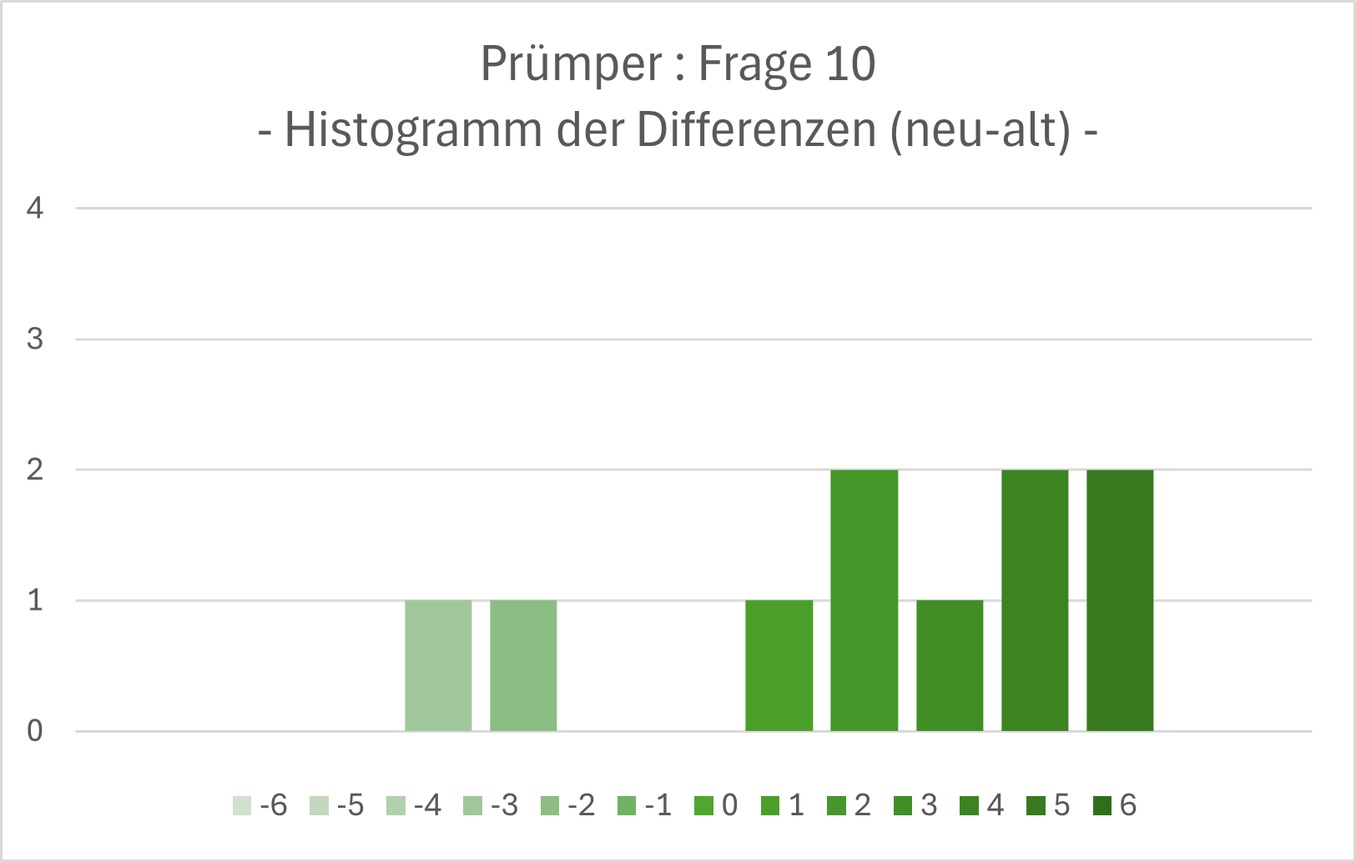
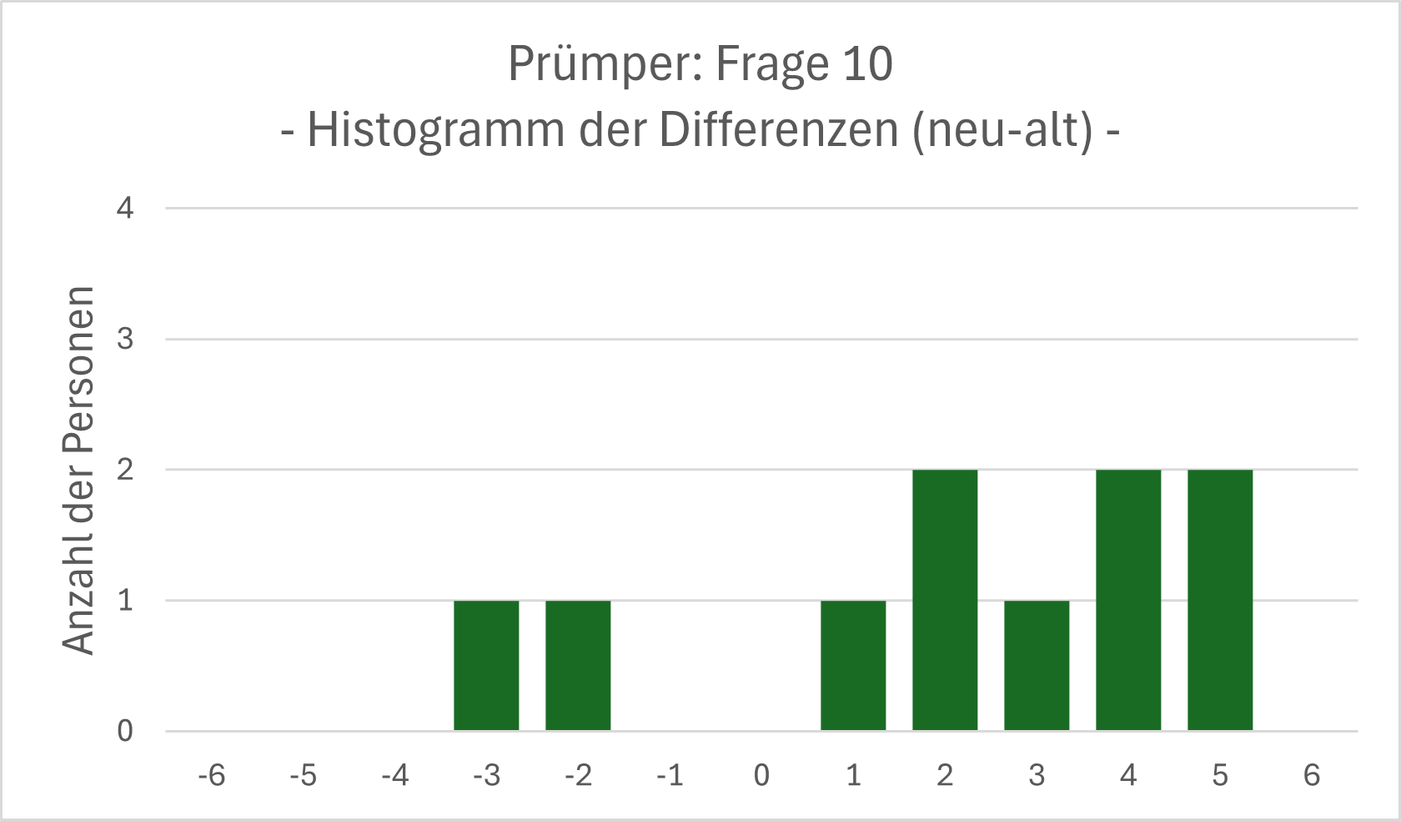
Feedback YME fertig eingearbeitet + neue Prümper-Histogramme + Verlaufsdiagramm Datenfluss DB

diff --git a/chapters/04_Dashboard/00_Erstellung_Dashboard.tex b/chapters/04_Dashboard/00_Erstellung_Dashboard.tex
@@ -13,7 +13,7 @@ Um die Ergebnisse des Testpools moderner (austauschen durch effizient o.s.) zu g
 % *****************************************************************
 \section{\textcolor{Turquoise}{Evaluation und Auswahl des Dashboard-Tools}}
 \label{ch:Dashboard:sec:Tooling}
- Das Dashboard-Projekt startete mit der Erwartung, Sonar nutzen zu können, da es bereits im Kontext eines anderen Produktes genutzt wurde, entsprechendes Wissen vorhanden ist, der Server weiterverwendet werden kann, und Sonar viele nützliche Funktionalitäten anbietet. Da das Dashboard in der Zukunft um eine Code-Analyse-Sektion erweitert werden soll, scheint die integrierte Funktionalität von Sonar angemessen. Jedoch ist die Lizenz von Sonar auf die Anzahl der Codezeilen ausgelegt. Mit der Menge der Codezeilen im bestehenden System (s. \autoref{ch:IST-Zustand}) wurde entschieden, dass diese finanzielle Belastung nicht realistisch tragbar ist. \textcolor{red}{\cite{TODO:Sonar}}
+ Das Dashboard-Projekt startete mit der Erwartung, Sonar nutzen zu können, da es bereits im Kontext eines anderen Produktes genutzt wurde, entsprechendes Wissen vorhanden ist, der Server weiterverwendet werden kann und Sonar viele nützliche Funktionalitäten anbietet. Da das Dashboard in der Zukunft um eine Code-Analyse-Sektion erweitert werden soll, scheint die integrierte Funktionalität von Sonar angemessen. Jedoch ist die Lizenz von Sonar auf die Anzahl der Codezeilen ausgelegt. Mit der Menge der Codezeilen im bestehenden System (s. \autoref{ch:IST-Zustand}) wurde entschieden, dass diese finanzielle Belastung nicht realistisch tragbar ist. \textcolor{red}{\cite{TODO:Sonar}}
 
  Es muss ein neues Tool gefunden werden. Für die Auswahl eines Tools wurden folgende Kategorien gewählt:
 \begin{itemize}
@@ -23,16 +23,19 @@ Um die Ergebnisse des Testpools moderner (austauschen durch effizient o.s.) zu g
     $\rightarrow$ Sind diese kompatibel zur Umgebung?
     \item Ist das Tool CI/CD-kompatibel?
     \item Wird das Tool immer noch aktiv gewartet?
-    \item Wie kann das Tool installiert werden? Zum Beispiel Docker/ händisch?
+    \item Welche Infrastruktur / Welchen Aufwand benötigt die Installation?
+    %Wie kann das Tool installiert werden? Zum Beispiel Docker/ händisch?
+    % TODO: im Anhang auch so umformulieren
     \item weitere Vorteile
     \item weitere Nachteile
 \end{itemize}
 
 In \autoref{tab:Dashboard:Evalutaion_Tooling} ist die Auflistung zu finden, welche Tools verglichen und wie diese ausgewertet wurden.
+Verschiedene Punkte führten zum Ausschluss der meisten Tools, darunter zum Beispiel Smashing, Dashbuilder und Tipboard. Sie sind zu alt, Open Source Projekte werden nicht mehr aktiv gewartet, benötigte Software ist nicht die jeweils aktuellste Version, das Tool ist umständlich zu installieren oder es gibt versteckte Kosten, da zum Beispiel ein zusätzlicher lizenzierter Server benötigt wird.
 
-Verschiedene Punkte führten zum Ausschluss der meisten Tools, darunter zum Beispiel Smashing, Dashbuilder und Tipboard. Sie waren zu alt, Open Source Projekte wurden nicht mehr aktiv gewartet, benötigte Software ist nicht die jeweils aktuellste Version, das Tool ist umständlich zu installieren oder es gab versteckte Kosten, da zum Beispiel ein zusätzlicher lizenzierter Server benötigt wurde.
+%Das neue Dashboard wurde mit Grafana Version 11.6.1 erstellt. Zwar hat das Tool nicht die gleichen Code-spezifischen Funktionalitäten wie Sonar, ist jedoch ein modernes viel genutztes Tool (s. \autoref{ch:SdF:sec:moderne_DB_Tools_und_Empfehlungen}). Abgesehen davon, dass ein Grafanaserver bereits zur Verfügung stand, kann es kostenfrei selbst gehostet werden, ermöglicht ein einfaches Drag-and-Drop zur Dashboard-Erstellung, unterstützt jegliche Dateiformate über einen API-Zugriff, ist leicht zu installieren und bietet viele Einstellungsmöglichkeiten zum Individualisieren. \textcolor{red}{\cite{TODO:Grafana}}
+Das neue Dashboard wurde mit Grafana Version 11.6.1 erstellt. Zwar hat das Tool nicht die gleichen Code-spezifischen Funktionalitäten wie Sonar, ist jedoch ein modernes viel genutztes Tool (s. \autoref{ch:SdF:sec:moderne_DB_Tools_und_Empfehlungen}). Zur Dashboard-Erstellung ermöglicht Grafana ein einfaches Drag-and-Drop, unterstützt jegliche Dateiformate über einen API-Zugriff, ist leicht zu installieren und bietet viele Einstellungsmöglichkeiten zum Individualisieren. Zudem kann Grafana kostenfrei selbst gehostet werden. \textcolor{red}{\cite{TODO:Grafana}}
 
-Das neue Dashboard wurde mit Grafana Version 11.6.1 erstellt. Zwar hat das Tool nicht die gleichen Code-spezifischen Funktionalitäten wie Sonar, ist jedoch ein modernes viel genutztes Tool (s. \autoref{ch:SdF:sec:moderne_DB_Tools_und_Empfehlungen}). Abgesehen davon, dass ein Grafanaserver bereits zur Verfügung stand, kann es kostenfrei selbst gehostet werden, ermöglich ein einfaches Drag-and-Drop zur Dashboard-Erstellung, unterstützt jegliche Dateiformate über einen API-Zugriff, ist leicht zu installieren und bietet viele Einstellungsmöglichkeiten zum Individualisieren. \textcolor{red}{\cite{TODO:Grafana}}
 
 % *****************************************************************
 \section{\textcolor{Turquoise}{technische Umsetzung des Datenflusses zur Dashboardanzeige}}
@@ -50,9 +53,8 @@ Das Dashboard kann auf den Server zugreifen und mithilfe der API über den Adres
 
 \begin{figure}[]
     \centering
-    %\includegraphics[width=1\linewidth]{Dashboard/.png}
-    \includegraphics[width=0.5\linewidth]{Anhänge/00_stockfoto.jpg}
-    \caption{Datenfluss vom alten System zum Dashboard \textcolor{red}{(Bild einfügen)}}
+    \includegraphics[width=1\linewidth]{Dashboard/Daten_Kontrollsequenz_DB.png}
+    \caption{Kontrollsequenz des Datenflusses vom alten System zum Dashboard}
     \label{fig:DB_Datenfluss}
 \end{figure}
 
@@ -62,7 +64,7 @@ Das Dashboard kann auf den Server zugreifen und mithilfe der API über den Adres
 \section{\textcolor{Turquoise}{Überblick über den strukturellen Aufbau und Inhalt des Dashboards}}
 \label{ch:Dashboard:sec:Aufbau}
 \textcolor{blue}{einleitende Worte}\\
-Es gibt zwei Dashboards. Einmal für die Entwicklungsversion und eins für alle releasten und maintainten Versionen. Da die releasten Versionen bis auf kleine Fixes nicht weiter verändert werden \textcolor{red}{(ist das die richtige Begründung?)}, ist die Anzahl der benötigten Tests bedeutend geringer. Somit kann der Statusbericht mehrerer Versionen auf einem Dashboard angezeigt werden.
+Es gibt zwei Dashboards. Je eins für die Entwicklungsversion und eins für alle veröffentlichten und aktiv gewarteten Versionen. Da die releasten Versionen bis auf kleine Fixes nicht weiter verändert werden \textcolor{red}{(ist das die richtige Begründung?)}, ist die Anzahl der benötigten Tests bedeutend geringer. Somit kann der Statusbericht mehrerer Versionen auf einem Dashboard angezeigt werden.
 
 Grafana gibt eine Dashboard Struktur in Reihen vor. Jede Reihe stellt ein System da, welches im alten System jeweils eine eigene Seite benötigt. Die Panele einer Reihe sind in drei Spalten aufgeteilt (s. \autoref{fig:aufbau_dashboard}).
 
@@ -79,7 +81,7 @@ Grafana gibt eine Dashboard Struktur in Reihen vor. Jede Reihe stellt ein System
 \textcolor{red}{TODO: im nächsten Absatz mit 'Daten' statt 'Spalte' ansetzten}
 
 % mittlere Spalte
-In der mittleren Spalte sind Zahlen in verschiedenen Farben dargestellt, die den jeweiligen Zustand bzw. die Fehleranzahl der entsprechenden Testkategorie anzeigt. Im Falle eines Green Days stehen in allen Feldern dunkelgraue Nullen. Da stattdessen auffallen soll wenn Fehler vorhanden sind, werden diese farbig markiert. Die Fehlerfälle sind 'System abgestürzt', 'Anzahl der Fehler', 'Anzahl der ausstehenden Tests' und 'ignorierte Tests'\footnote{Die Kategorie 'Ignorierte Tests' umfässt zum Beispiel Testfälle mit langzeit bekannten Fehlern, die für die Einschätzung des Green Days ignoriert werden dürfen.}.
+In der mittleren Spalte sind Zahlen in verschiedenen Farben dargestellt, die den jeweiligen Zustand bzw. die Fehleranzahl der entsprechenden Testkategorie anzeigt. Im Falle eines Green Days, ein Tag an dem keine Fehler auftreten, stehen in allen Feldern dunkelgraue Nullen. Da stattdessen auffallen soll wenn Fehler vorhanden sind, werden diese farbig markiert. Die Fehlerfälle sind 'System abgestürzt', 'Anzahl der Fehler', 'Anzahl der ausstehenden Tests' und 'ignorierte Tests'\footnote{Die Kategorie 'Ignorierte Tests' umfässt zum Beispiel Testfälle mit langzeit bekannten Fehlern, die für die Einschätzung des Green Days ignoriert werden dürfen.}.
 Aufgrund der Menge an Testfällen und der Anforderung alle zusammengehörigen Daten auf einen Blick erfassen zu können (s. \autoref{ch:Dashboard:sec:Anforderungen}), sind die Test-Kategorien in Spalten und deren Ergebnisse in den Reihen darunter dargestellt. Im Vergleich zum alten System wurden die Reihen/Spalten vertauscht (s. \autoref{fig:aufbau_altes_System}).
 
 % Informationen: linke + rechte Spalte

diff --git a/chapters/02_Stand_der_Forschung/03_UI.tex b/chapters/02_Stand_der_Forschung/03_UI.tex
@@ -16,19 +16,20 @@ Die DIN-Normen der Nummer 9241 geben Vorgaben und Empfehlungen zur Gestaltung in
 
 Neben der Usability steht die User-Experience (UX, dt. Nutzererfahrung oder -erlebnis). Diese wird in Part 210 beschrieben. Da die das Nutzererlebnis eine Übermenge der Gebrauchstauglichkeit (UE) ist ($UX \varsubsetneq UE$), ist sie nicht in der Abbildung aufgelistet. Der Part 112 mit den Grundsätzen zur Informationsdarstellung ist vor allem auf Anwendungsfälle wie Interfaces oder Dashboards anwendbar. Da dieser Part jedoch ebenfalls sehr UX-nah aufgebaut ist, finden seine Prinzipien aus Umfangsgründen keinen Platz in dieser Forschung.
 
-% *******************************************************************************************
-\subsection{\textcolor{Plum}{Differenzierung Usability und User-Experience}}
-\label{ch:SdF:sec:Usability_vs_User_Experience}
-alles von oben einfügen
-% *******************************************************************************************
+% ******************************************************************
 \subsection{\textcolor{Turquoise}{Definition Usability nach ISO 9241-11}}
 \label{ch:SdF:sec:Usability}
 Der Begriff der Usability (dt. Gebrauchstauglichkeit) beschreibt, im Gegensatz zur User-Experience (UX), die Qualität eines Systems / einer Oberfläche in Bezug auf die Einfachheit und Nutzbarkeit des Systems. Sie wird gemessen in den Dimensionen der Effektivität, Effizienz und der Zufriedenheit.
 
 Die Effizienz beschreibt die funktionelle Eignung eines Systems, das heißt dass der Nutzer seine Aufgaben vollständig und korrekt mithilfe dieses Systems durchführen kann. Die Effizienz misst sich in Form von Zeit, um eine Aufgabe vollständig und richtig zu erfüllen, und der Rate wie viele Fehler auf dem Weg dorthin gemacht wurden. Die Zufriedenheit der Nutzer ist nicht in metrischen Kenngrößen zu erfassen. In Form von zum Beispiel Fragebögen (s. \autoref{ch:SdF:sec:Fragebogen}) oder der Verhaltensanalyse während eines Testszenario kann eine Zufriedenheitsspektrum festgestellt werden.
 
+% ******************************************************************
+\subsection{\textcolor{Plum}{Differenzierung Usability und User-Experience}}
+\label{ch:SdF:sec:Usability_vs_User_Experience}
+alles von oben einfügen
+\cite{usability_vs_experience:2018}
 
-% *******************************************************************************************
+% ******************************************************************
 \subsection{\textcolor{Salmon}{Interaktionsprinzipien nach ISO 9241-110}}   % zur Gebrauchstauglichkeit und Ergonomie interaktiver Systeme
 \label{ch:SdF:sec:Interaktionsprinzipien}
 %\cite{DIN_EN_ISO_9241-110}\\
@@ -63,24 +64,27 @@ Weiterhin sollte das System Rückmeldung geben, um dem Nutzer zu helfen, die Fol
 
 \noindent
 \underline{/* TODO}\\
-* Erlernbarkeit\\
 * Steuerbarkeit\\
 * Robustheit gegen Benutzungsfehler\\
 * Benutzerbindung (en: user engagement)\\
 */
 
-% *******************************************************************************************
+% ******************************************************************
 \subsection{\textcolor{Plum}{Standardisierter Fragebogen von J. Prümper nach ISO 9241-110}}
 \label{ch:SdF:sec:Fragebogen}
 ...
 Will ich den überhaupt hier aufzählen? wird in \autoref{ch:Validierung:sec:Material:Nutzerbefragung} genannt.
 
-% *******************************************************************************************
+überarbeitete Kurzversion des Fragebogens von Jochen Prümper \cite{Pruemper:Fragebogen-S:2006}.
+Prümpers Fragebogen wurde auf Basis der ISO 9241-110 (s. \autoref{ch:SdF:UI:ISO}) erstellt, indem jeder der sieben Skalen drei Fragen zugeordnet wurden. \cite{Pruemper:Fragebogen-S:2006:Paper}
+
+% ******************************************************************
 \subsection{\textcolor{Plum}{moderne Tools und Empfehlungen zur Erstellung von Dashboards}}
 \label{ch:SdF:sec:moderne_DB_Tools_und_Empfehlungen}
 ...
+Grafana und weitere Tools nennen -> und wo diese Auflistung herkommt
 
-% *******************************************************************************************
+% ******************************************************************
 \subsection{\textcolor{Plum}{psychologische Ansätze zur Gestaltung von Oberflächen}}
 \label{ch:SdF:sec:psychologisch}
 // TODO: Titel ändern! \\

diff --git a/Anhänge/Nutzerbefragung/rohe_Daten.tex b/Anhänge/Nutzerbefragung/rohe_Daten.tex
@@ -29,64 +29,64 @@ neu       & 1,55      & 2           & 1,5      \\ \hline
 %\begin{tabular}{|l|c|c|c|}
 \hline
 Frage 2   & $\Bar{x}$ & $\Tilde{x}$ & $\sigma$ \\ \hline
-alt       & xxxx      &  xx         &  xxxx    \\ \hline
-neu       & xxxx      &  xx         &  xxxx    \\ \hline
+alt       & 0,27      &  1          &  1,86    \\ \hline
+neu       & 1,45      &  2          &  1,37    \\ \hline
 %Differenz &           &             & -        \\ \hline
 %\end{tabular}
 %\begin{tabular}{|l|c|c|c|}
 \hline
 Frage 3   & $\Bar{x}$ & $\Tilde{x}$ & $\sigma$ \\ \hline
-alt       & xxxx      &  xx         &  xxxx    \\ \hline
-neu       & xxxx      &  xx         &  xxxx    \\ \hline
+alt       & 0.36      &  0          &  1.67    \\ \hline
+neu       & 1.27      &  2          &  1.35    \\ \hline
 %Differenz &           &             & -        \\ \hline
 %\end{tabular}
 %\begin{tabular}{|l|c|c|c|}
 \hline
 Frage 4   & $\Bar{x}$ & $\Tilde{x}$ & $\sigma$ \\ \hline
-alt       & xxxx      &  xx         &  xxxx    \\ \hline
-neu       & xxxx      &  xx         &  xxxx    \\ \hline
+alt       & -0.3      &  0         &  2,18    \\ \hline
+neu       & 1,45      &  2         &  1,44    \\ \hline
 %Differenz &           &             & -        \\ \hline
 %\end{tabular}
 %\begin{tabular}{|l|c|c|c|}
 \hline
 Frage 5   & $\Bar{x}$ & $\Tilde{x}$ & $\sigma$ \\ \hline
-alt       & xxxx      &  xx         &  xxxx    \\ \hline
-neu       & xxxx      &  xx         &  xxxx    \\ \hline
+alt       & 0.73      &  1          &  2,05    \\ \hline
+neu       & 2.27      &  2          &  0,62    \\ \hline
 %Differenz &           &             & -        \\ \hline
 \end{tabular}
 \begin{tabular}{|l|c|c|c|}
 \hline
 Frage 6   & $\Bar{x}$ & $\Tilde{x}$ & $\sigma$ \\ \hline
-alt       & xxxx      &  xx         &  xxxx    \\ \hline
-neu       & xxxx      &  xx         &  xxxx    \\ \hline
+alt       & -0.4      &  -1         &  1,97    \\ \hline
+neu       & 1.91      &  2          &  1,16    \\ \hline
 %Differenz &           &             & -        \\ \hline
 %\end{tabular}
 %\begin{tabular}{|l|c|c|c|}
 \hline
 Frage 7   & $\Bar{x}$ & $\Tilde{x}$ & $\sigma$ \\ \hline
-alt       & xxxx      &  xx         &  xxxx    \\ \hline
-neu       & xxxx      &  xx         &  xxxx    \\ \hline
+alt       & -0.8      &  -1         &  1,75    \\ \hline
+neu       & 1.73      &  2          &  0,75    \\ \hline
 %Differenz &           &             & -        \\ \hline
 %\end{tabular}
 %\begin{tabular}{|l|c|c|c|}
 \hline
 Frage 8   & $\Bar{x}$ & $\Tilde{x}$ & $\sigma$ \\ \hline
-alt       & xxxx      &  xx         &  xxxx    \\ \hline
-neu       & xxxx      &  xx         &  xxxx    \\ \hline
+alt       & 1.2       &  1         &  1,33    \\ \hline
+neu       & 2.27      &  3         &  0,96    \\ \hline
 %Differenz &           &             & -        \\ \hline
 %\end{tabular}
 %\begin{tabular}{|l|c|c|c|}
 \hline
 Frage 9   & $\Bar{x}$ & $\Tilde{x}$ & $\sigma$ \\ \hline
-alt       & xxxx      &  xx         &  xxxx    \\ \hline
-neu       & xxxx      &  xx         &  xxxx    \\ \hline
+alt       & -0.2      &  -1         &  2,14    \\ \hline
+neu       & 2.09      &  2          &  1,16    \\ \hline
 %Differenz &           &             & -        \\ \hline
 %\end{tabular}
 %\begin{tabular}{|l|c|c|c|}
 \hline
 Frage 10   & $\Bar{x}$ & $\Tilde{x}$ & $\sigma$ \\ \hline
-alt       & xxxx      &  xx         &  xxxx    \\ \hline
-neu       & xxxx      &  xx         &  xxxx    \\ \hline
+alt       & -0.9       &  -1.5       &  1,81    \\ \hline
+neu       & 1.2        &  1.5        &  1,4    \\ \hline
 %Differenz &           &             & -        \\ \hline
 \end{tabular}
 

diff --git a/Anhänge/Usability-Test/rohe_Daten.tex b/Anhänge/Usability-Test/rohe_Daten.tex
@@ -11,48 +11,50 @@
 % *********************************************************************************
 
 \begin{table}[H]
+\justifying
 \begin{tabular}{|l|c|c|c|c|}
 \hline
 Aufgabe 1\textcolor{white}{.0}   & $\Bar{x}$ & $\Tilde{x}$ & $\sigma$ & f \\ \hline
-alt         & xxxx      &  xx         &  xxxx &  xxx   \\ \hline
-neu         & xxxx      &  xx         &  xxxx &  xxx   \\ \hline
+alt                              & 16        &  13         &  11      &  0\%   \\ \hline
+neu                              & 9,5       &  9          &  3,6     &  9,09\%   \\ \hline
 %Differenz   &           &             & -     &  xxx   \\ \hline
-\end{tabular}
-\begin{tabular}{|l|c|c|c|c|}
+%\end{tabular}
+%\begin{tabular}{|l|c|c|c|c|}
 \hline
 Aufgabe 2\textcolor{white}{.0}   & $\Bar{x}$ & $\Tilde{x}$ & $\sigma$ & f \\ \hline
-alt         & xxxx      &  xx         &  xxxx &  xxx   \\ \hline
-neu         & xxxx      &  xx         &  xxxx &  xxx   \\ \hline
+alt                              & 14        &  10         &  9,1  &  0\%   \\ \hline
+neu                              & 6,5       &  6,5        &  2,3  &  30\%   \\ \hline
 %Differenz   &           &             & -     &  xxx   \\ \hline
-\end{tabular}
-\begin{tabular}{|l|c|c|c|c|}
+%\end{tabular}
+%\begin{tabular}{|l|c|c|c|c|}
 \hline
 Aufgabe 3.1   & $\Bar{x}$ & $\Tilde{x}$ & $\sigma$ & f \\ \hline
-alt         & xxxx      &  xx         &  xxxx &  xxx   \\ \hline
-neu         & xxxx      &  xx         &  xxxx &  xxx   \\ \hline
+alt           & 16        &  15         &  6,2  &  0\%   \\ \hline
+neu           & 12        &  11         &  6,4  &  36,36\%   \\ \hline
 %Differenz   &           &             & -     &  xxx   \\ \hline
 \end{tabular}
 \begin{tabular}{|l|c|c|c|c|}
 \hline
 Aufgabe 3.2   & $\Bar{x}$ & $\Tilde{x}$ & $\sigma$ & f \\ \hline
-alt         & xxxx      &  xx         &  xxxx &  xxx   \\ \hline
-neu         & xxxx      &  xx         &  xxxx &  xxx   \\ \hline
+alt           & 9         &  8          &  5,4  &  0\%   \\ \hline
+neu           & 5,4       &  4          &  3    &  36,36\%   \\ \hline
 %Differenz   &           &             & -     &  xxx   \\ \hline
-\end{tabular}
-\begin{tabular}{|l|c|c|c|c|}
+%\end{tabular}
+%\begin{tabular}{|l|c|c|c|c|}
 \hline
 Aufgabe 4.1   & $\Bar{x}$ & $\Tilde{x}$ & $\sigma$ & f \\ \hline
-alt         & xxxx      &  xx         &  xxxx &  xxx   \\ \hline
-neu         & xxxx      &  xx         &  xxxx &  xxx   \\ \hline
+alt           & 21        &  18         &  7,4  &  45,45\%   \\ \hline
+neu           & 15        &  12         &  8,8  &  9,09\%   \\ \hline
 %Differenz   &           &             & -     &  xxx   \\ \hline
-\end{tabular}
-\begin{tabular}{|l|c|c|c|c|}
+%\end{tabular}
+%\begin{tabular}{|l|c|c|c|c|}
 \hline
 Aufgabe 4.2   & $\Bar{x}$ & $\Tilde{x}$ & $\sigma$ & f \\ \hline
-alt         & xxxx      &  xx         &  xxxx &  xxx   \\ \hline
-neu         & xxxx      &  xx         &  xxxx &  xxx   \\ \hline
+alt           & 12        &  11         &  7,7  &  18,18\%   \\ \hline
+neu           & 8,5       &  7          &  4,4  &  9,09\%   \\ \hline
 %Differenz   &           &             & -     &  xxx   \\ \hline
 \end{tabular}
+
 \begin{tabular}{ll}
 \multicolumn{2}{l}{verwendete Formelzeichen:} \\ \hline
 $\Bar{x}$          & Mittelwert               \\

diff --git a/chapters/05_Ergebnisse/01_Hypothesen.tex b/chapters/05_Ergebnisse/01_Hypothesen.tex
@@ -12,8 +12,8 @@ Bevor ein Versuch durchgeführt werden kann, werden Hypothesen aufgstellt, um fe
 \textbf{1) Wenn die Versuchsperson die Aufgaben mit der neuen Oberfläche bedient, dann kann sie diese schneller beantworten im Vergleich zur alten Oberfläche.} \\
 
 \begin{itemize}
-    \item H$_{01}$ = Die Nutzung des neuen Systems ($\mu2$) hat keinen oder keinen positiven Einfluss auf die durchschnittliche Bearbeitungsdauer ($t$) der gestellten Aufgaben im Vergleich zur Nutzung des alten Systems ($\mu1$); $t_{\mu1} \leq t_{\mu2}$.
-    %\item H$_{01}$ = Die Nutzung des neuen Systems ($\mu2$) hat keinen oder keinen positiven Einfluss auf die durchschnittliche Bearbeitungsdauer ($t$) der gestellten Aufgaben im Vergleich zur Nutzung des alten Systems ($\mu1$); $t(\mu1) \leq t(\mu2)$.
+    %\item H$_{01}$ = Die Nutzung des neuen Systems ($\mu2$) hat keinen oder keinen positiven Einfluss auf die durchschnittliche Bearbeitungsdauer ($t$) der gestellten Aufgaben im Vergleich zur Nutzung des alten Systems ($\mu1$); $t_{\mu1} \leq t_{\mu2}$.
+    \item H$_{01}$ = Die Nutzung des neuen Systems ($\mu2$) hat keinen oder keinen positiven Einfluss auf die durchschnittliche Bearbeitungsdauer ($t$) der gestellten Aufgaben im Vergleich zur Nutzung des alten Systems ($\mu1$); $t(\mu1) \leq t(\mu2)$.
     \item H$_{11}$ = Die Nutzung des neuen Systems ($\mu2$) beeinflusst die durchschnittliche Bearbeitungsdauer ($t$) der gestellten Aufgaben positiv im Vergleich zur Nutzung des alten Systems ($\mu1$); $t_{\mu1} > t_{\mu2}$.
 \end{itemize}
 
@@ -32,8 +32,8 @@ Bevor ein Versuch durchgeführt werden kann, werden Hypothesen aufgstellt, um fe
 % -> Usability besser bewerten (Prümper) \\
 
 \begin{itemize}
-    \item H$_{03}$ = Die Nutzung des neuen Systems ($\mu2$) hat keinen oder keinen positiven Einfluss auf die Bewertung der Software im Vergleich zur Nutzung des alten Systems ($\mu1$); $\mu1 \geq \mu2$.
-    \item H$_{13}$ = Die Nutzung des neuen Systems ($\mu2$) beeinflusst die Bewertung der Software positiv im Vergleich zur Nutzung des alten Systems ($\mu1$); $\mu1 < \mu2$.
+    \item H$_{03}$ = Die Nutzung des neuen Systems ($\mu2$) hat keinen oder keinen positiven Einfluss auf die Bewertung ($b$) der Software im Vergleich zur Nutzung des alten Systems ($\mu1$); $b(\mu1) \geq b(\mu2)$.
+    \item H$_{13}$ = Die Nutzung des neuen Systems ($\mu2$) beeinflusst die Bewertung ($b$) der Software positiv im Vergleich zur Nutzung des alten Systems ($\mu1$); $b(\mu1) < b(\mu2)$.
 \end{itemize}
 
 % **************************************************************

diff --git a/chapters/05_Ergebnisse/02b_Fragebogen_Prümper.tex b/chapters/05_Ergebnisse/02b_Fragebogen_Prümper.tex
@@ -1,8 +1,6 @@
 \subsection{\textcolor{Turquoise}{Erstellung des Fragebogens für die Nutzerbefragung}}
 \label{ch:Validierung:sec:Material:Nutzerbefragung}
-Der Fragebogen für die Nutzerbefragung wurde nach dem Vorbild der überarbeiteten Kurzversion des Fragebogens von Jochen Prümper \cite{Pruemper:Fragebogen-S:2006} erstellt. Prümpers Fragebogen wurde auf Basis der ISO 9241-110 (s. \autoref{ch:SdF:UI:ISO}) erstellt, indem jeder der sieben Skalen drei Fragen zugeordnet wurden. \cite{Pruemper:Fragebogen-S:2006:Paper}
-
-Das Validierungsverfahren zielt auf die Auswertung der Usability der Dashboardlösung im Vergleich zum bestehenden System ab. Da in die ISO-Norm jedoch auch die Auswertung der User-Experience inbegriffen ist, wurde der Fragenkatalog gekürzt. Die Abgrenzung zwischen den Begriffen Usability und User-Experience wird in \autoref{ch:SdF:sec:Usability_vs_User_Experience} dargestellt.
+Der Fragebogen für die Nutzerbefragung wurde nach dem Vorbild von Jochen Prümper (s. \autoref{ch:SdF:sec:Fragebogen}). Das Validierungsverfahren zielt auf die Auswertung der Usability der Dashboard-Lösung im Vergleich zum bestehenden System ab. Da in die ISO-Norm jedoch auch die Auswertung der User-Experience inbegriffen ist, wurde der Fragenkatalog gekürzt. Die Abgrenzung zwischen den Begriffen Usability und User-Experience wird in \autoref{ch:SdF:sec:Usability_vs_User_Experience} dargestellt.
 
 Der Fragenkatalog wurde auf zehn Fragen gekürzt, um den Umfang gering zu halten. Die genauen Begründungen werden in \autoref{Add:Nutzerbefragung_Prümper:Begründung_Filterung} aufgelistet.
 

diff --git a/chapters/05_Ergebnisse/05_Versuchsdurchführung.tex b/chapters/05_Ergebnisse/05_Versuchsdurchführung.tex
@@ -3,9 +3,9 @@ Für den Versuch werden die Probanden einzeln in Online-Meetings geladen. Das Vo
 
 Nach Meetingstart wird erneut das Vorhaben und der Zweck der Befragung erläutert. Nach Aufforderung und Zustimmung überträgt die befragte Person ihren Bildschirm und die Aufzeichnung des Meetings wird gestartet.
 
-Es wird ein Link zur Online-Umfrage geteilt. Damit ein möglichst vergleichbares Umfeld geschaffen werden kann, werden alle benötigten Anleitungen, Anweisungen, Links, Aufgaben- und Fragestellungen durch diese Umfrage vermittelt. Bis auf die Klärung von Verständnisfragen wird bis zur Diskussionsrunde am Ende nicht weiter mit der Befragten interagiert.
+Es wird ein Link zur Online-Umfrage geteilt. Damit ein möglichst vergleichbares Umfeld geschaffen werden kann, werden alle benötigten Anleitungen, Anweisungen, Links, Aufgaben- und Fragestellungen durch diese Umfrage vermittelt. Bis auf die Klärung von Verständnisfragen wird bis zur Diskussionsrunde am Ende nicht weiter mit der befragten Person interagiert.
 
-Die Texte und Anweisungen werden Schritt für Schritt auf je eine Folie geschrieben, damit kein zu langer Text überflogen wird und wichtige Informationen überlesen werden.
+Damit kein Text überflogen wird und wichtige Informationen überlesen werden, werden die Texte und Anweisungen schrittweise auf je eine Folie geschrieben, 
 
 %- 1 Umfragenlink (via survio)\\
 %- jede Anleitung war enthalten\\

diff --git a/chapters/Notizen Formalien .tex b/chapters/Notizen Formalien .tex
@@ -9,14 +9,29 @@ keine Detaillierte Beschreibung von:
 - alles andere / generelle entfällt oder nur kurz erwähnen, Quelle dran, fertig
 - keine Firmenbeschreibung - Firma ist Mittel zum Zweck = Experimentierumgebung
 
+Text ist nie fertig und nie von Anfang an gut
+============================================
+-> aber man fängt an umzuformulieren
+o	erstmal nur runterschreiben / Kauderwelsch
+o	später überarbeiten
+
 Thesis-Text
 ===========
 - keine Fragewörter in nicht-Fragen verwenden - nicht: "wie oben gezeigt"
 - Denglisch erlaubt
   -> im üblichen Sprachgebrauch - nur Eigennamen, keine Verben
   -> Informatik eh englisch, aber konsistent bleiben, nicht hin und her wechseln
+  -> keine Verben/adverbien daraus bilden ('Release-Version' statt 'releaste Version')
 - Zitieren: von LateX fine - Buchstaben und Zahlen
 - Inspiration für Einleitung/Abstract/Fazit \url{https://www.researchgate.net/publication/290368471_Der_Benutzungsfragebogen_ISONORM_924110_Ergebnisse_zur_Reliabilitat_und_Validitat}
+-	Referenzierungen
+    -> pro Abschnitt max. eine Referenzierung (geht aber nicht immer)
+    -> kommt noch im Feedback ob es zu viel ist.
+    -> Rückreferenzieren! – „das haben wir da und da schon besprochen“
+    - Kapitel 4/5 – aus subkapitel davor verweisen
+        -> im vorhergehenden Kapitel wurde Konzept X erklärt
+        -> das wird jetzt hier nochmal aufgenommen
+
 
 Fragestellung
 =============

diff --git a/chapters/05_Ergebnisse/02_Material.tex b/chapters/05_Ergebnisse/02_Material.tex
@@ -3,7 +3,7 @@
 %\textcolor{blue}{einleitende Worte}
 Für den Versuch wurden verschiedene Materialien verwendet.
 
-Für die Befragung der Personen wurde ein Meeting mit Microsoft Teams aufgesetzt, welches aufgezeichnet werden kann. Die Teilnehmer haben einen Fragenkatalog (s. \autoref{ch:Validierung:sec:Material:Nutzerbefragung}) und einen Aufgabenkatalog (s. \autoref{ch:Validierung:sec:Material:Usability_Test}) erhalten. Diese wurden in Form einer Umfrage über die kostenlose Online-Plattform Survio \cite{Survio} aufbereitet.
+Für die Befragung der Personen wurde ein Meeting mit Microsoft Teams aufgesetzt, welches aufgezeichnet werden kann. Die Teilnehmer haben einen Fragenkatalog (s. \autoref{ch:Validierung:sec:Material:Nutzerbefragung}) und einen Aufgabenkatalog (s. \autoref{ch:Validierung:sec:Material:Usability_Test}) erhalten. Diese wurden in Form einer Umfrage über die kostenlose Online-Plattform Survio\footnote{\url{https://www.survio.com/de/} (besucht am 14.06.2025)} aufbereitet.
 
 Weiterhin wurde für den Versuch die Testpoolmonitoring-Oberflächen des alten Systems (s. \autoref{ch:IST-Zustand}) sowie das neue System (s. \autoref{ch:Erstellung Dashboard} genutzt, um diese zu vergleichen. Die Anzeigedaten des neuen Systems wurden hierbei durch zufällige gemockte Daten ersetzt, damit dieselben tagesaktuellen Daten nicht zwei mal abgefragt werden und eine Verfälschung der gemessenen Zeiten verursachen.
 

diff --git a/chapters/03a_Problemstellung/00_Problemstellung.tex b/chapters/03a_Problemstellung/00_Problemstellung.tex
@@ -27,6 +27,13 @@ Fragestellung von eigenem Problem ableiten, ohne eine Frage zu formulieren
 
 kurz, nur Auflistung der Fragen
 
+-	aufschreiben, wie die Antworten die Thesen supporten oder nicht
+-> die vorhergestellten Fragen
+-> „was ist das erwartete Ergebnis“ (Regelwerk – es wird Ergebnis „turning blue“ erwartet wenn wir es richtig machen)
+-> wie welche Antworten meine These unterstreichen
+
+
+
 % *****************************************************************************
 \section{\textcolor{Plum}{Methodisches Vorgehen zur Entwicklung eines Dashboards als
 moderne Anzeige der Testpoolergebnisse}}

diff --git a/chapters/05_Ergebnisse/02a_Aufgaben_Usability_Test.tex b/chapters/05_Ergebnisse/02a_Aufgaben_Usability_Test.tex
@@ -3,3 +3,7 @@
 - Aufgabenkatalog, s. \autoref{Add:Usability_Test:Aufgabenkatalog}\\
 -> nachfolgend wird mit der Kurzform 'Aufgabe 1', 'Aufgabe 2' etc. auf den Aufgabenkatalog des Usability-Tests referenziert\\
 - Begründungen für Aufgaben und Reihenfolge, s. \autoref{Add:Usability_Test:Begündung_Aufgaben}
+
+%-	Überblick über Anforderungen an das bestehende System / das neue System
+%o	wie kann man die testen?
+o	sind das Tests dabei, die nicht von den Fragen abgedeckt wurden?

diff --git a/chapters/03b_IST_Zustand/00_IST-Zustand.tex b/chapters/03b_IST_Zustand/00_IST-Zustand.tex
@@ -44,3 +44,7 @@ Quellen der Anforderungen:\\
 -> Nutzerfeedback, bestehende Dokumentation, eigene Analyse\\
 
 - die Tabellen aus der ISO nutzen / ausfüllen \cite{DIN_EN_ISO_9241-110} \autoref{fig:Anforderungskatalog_ISO_alt}\\
+
+-	Überblick über Anforderungen an das bestehende System / das neue System
+o	wie kann man die testen?
+%o	sind das Tests dabei, die nicht von den Fragen abgedeckt wurden?
